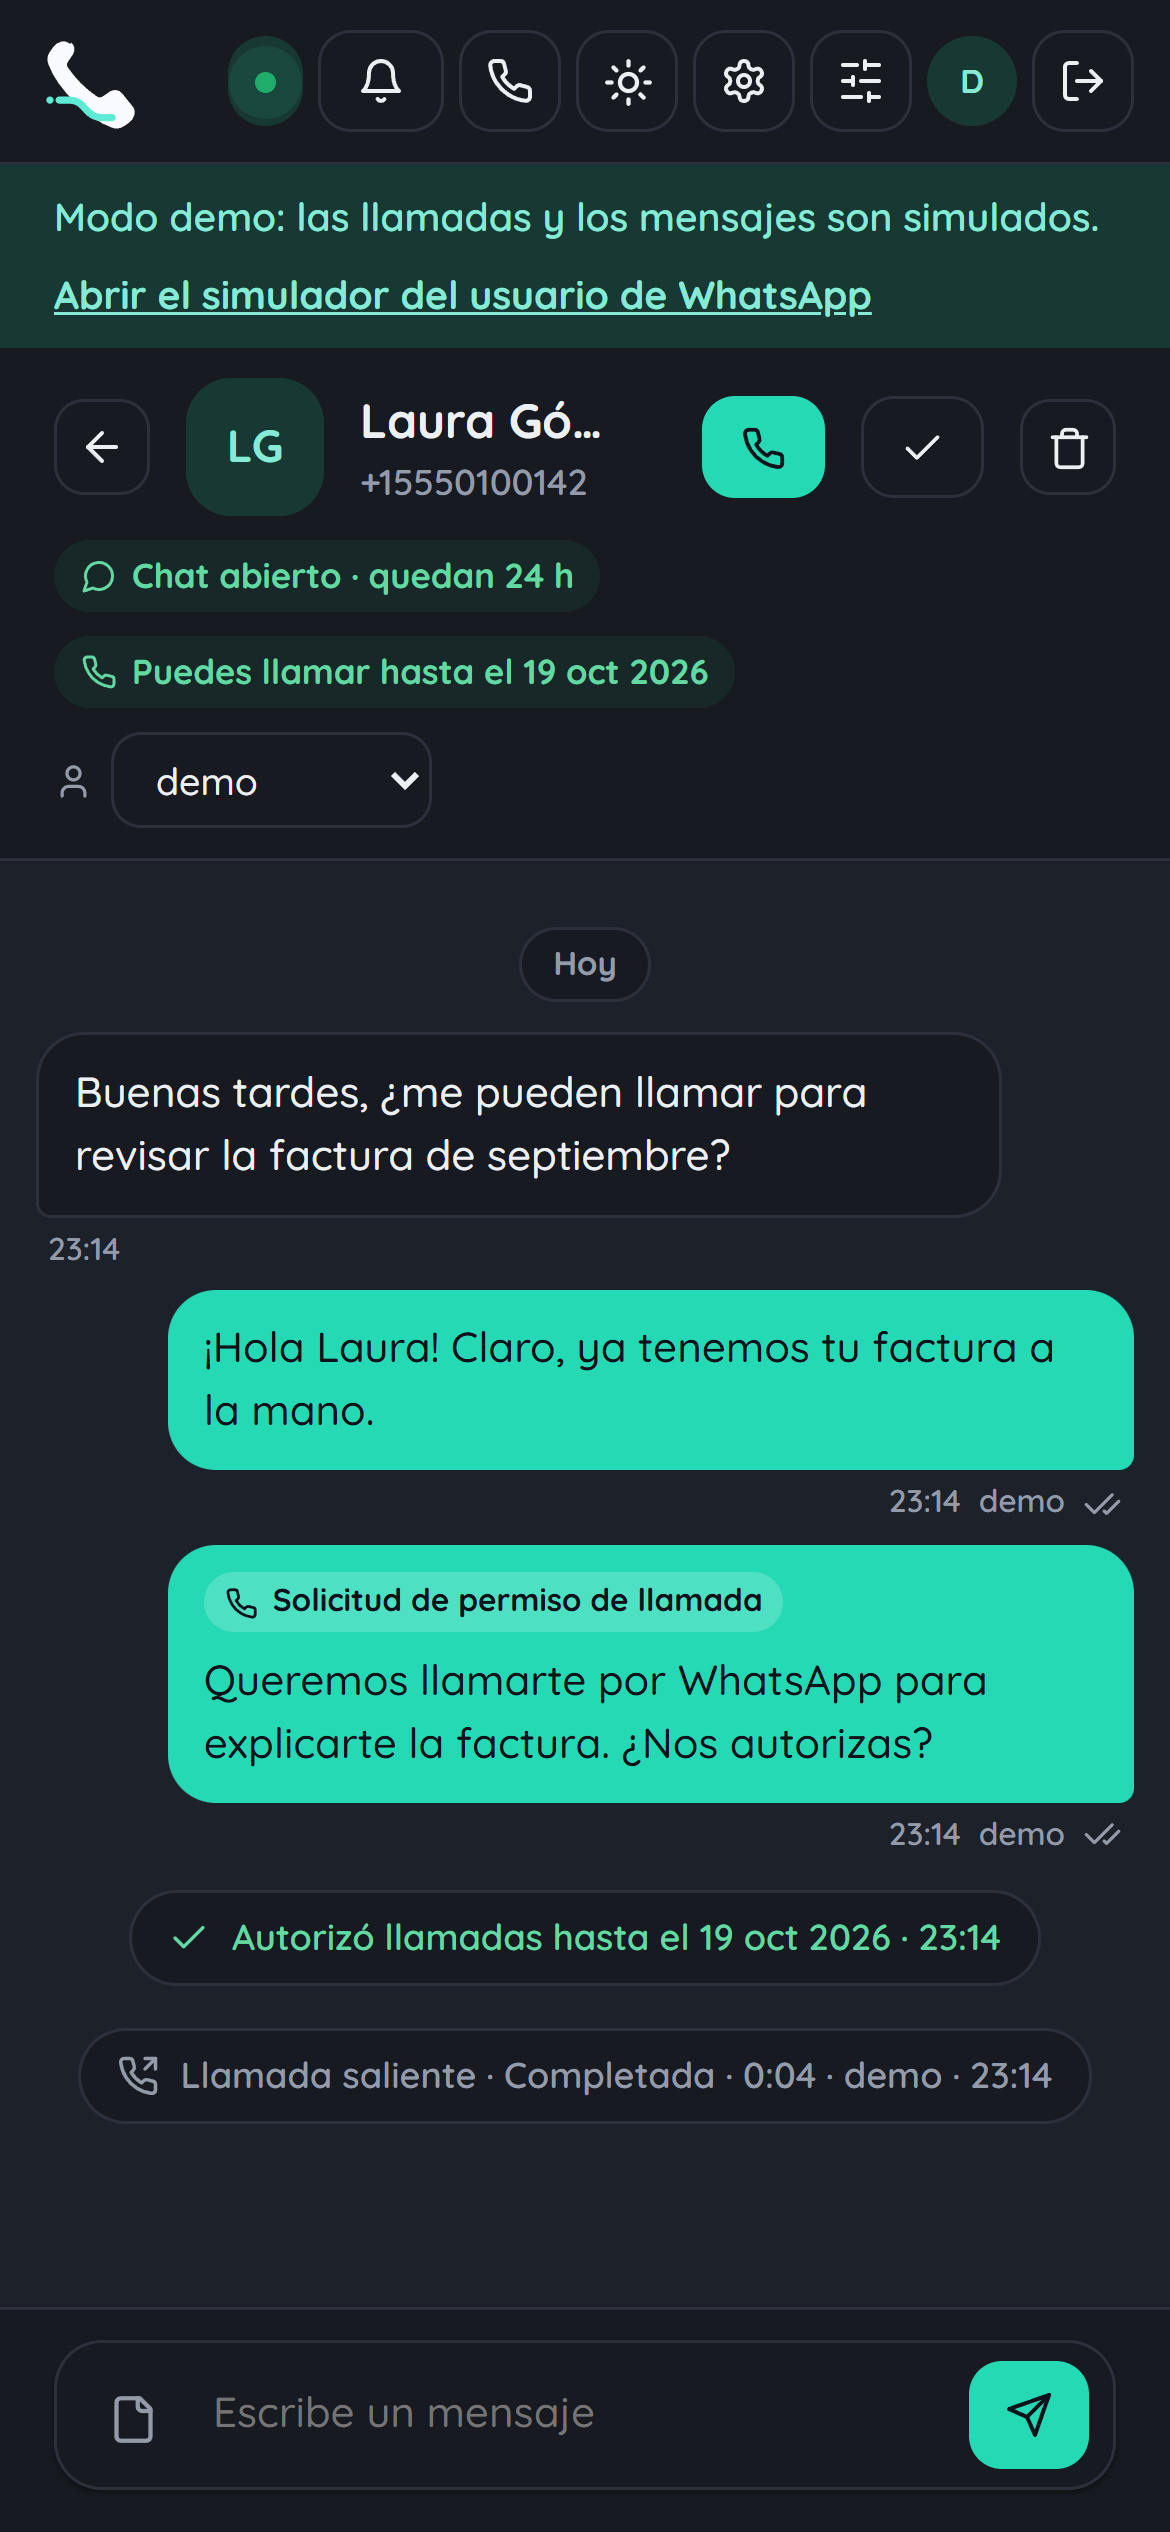
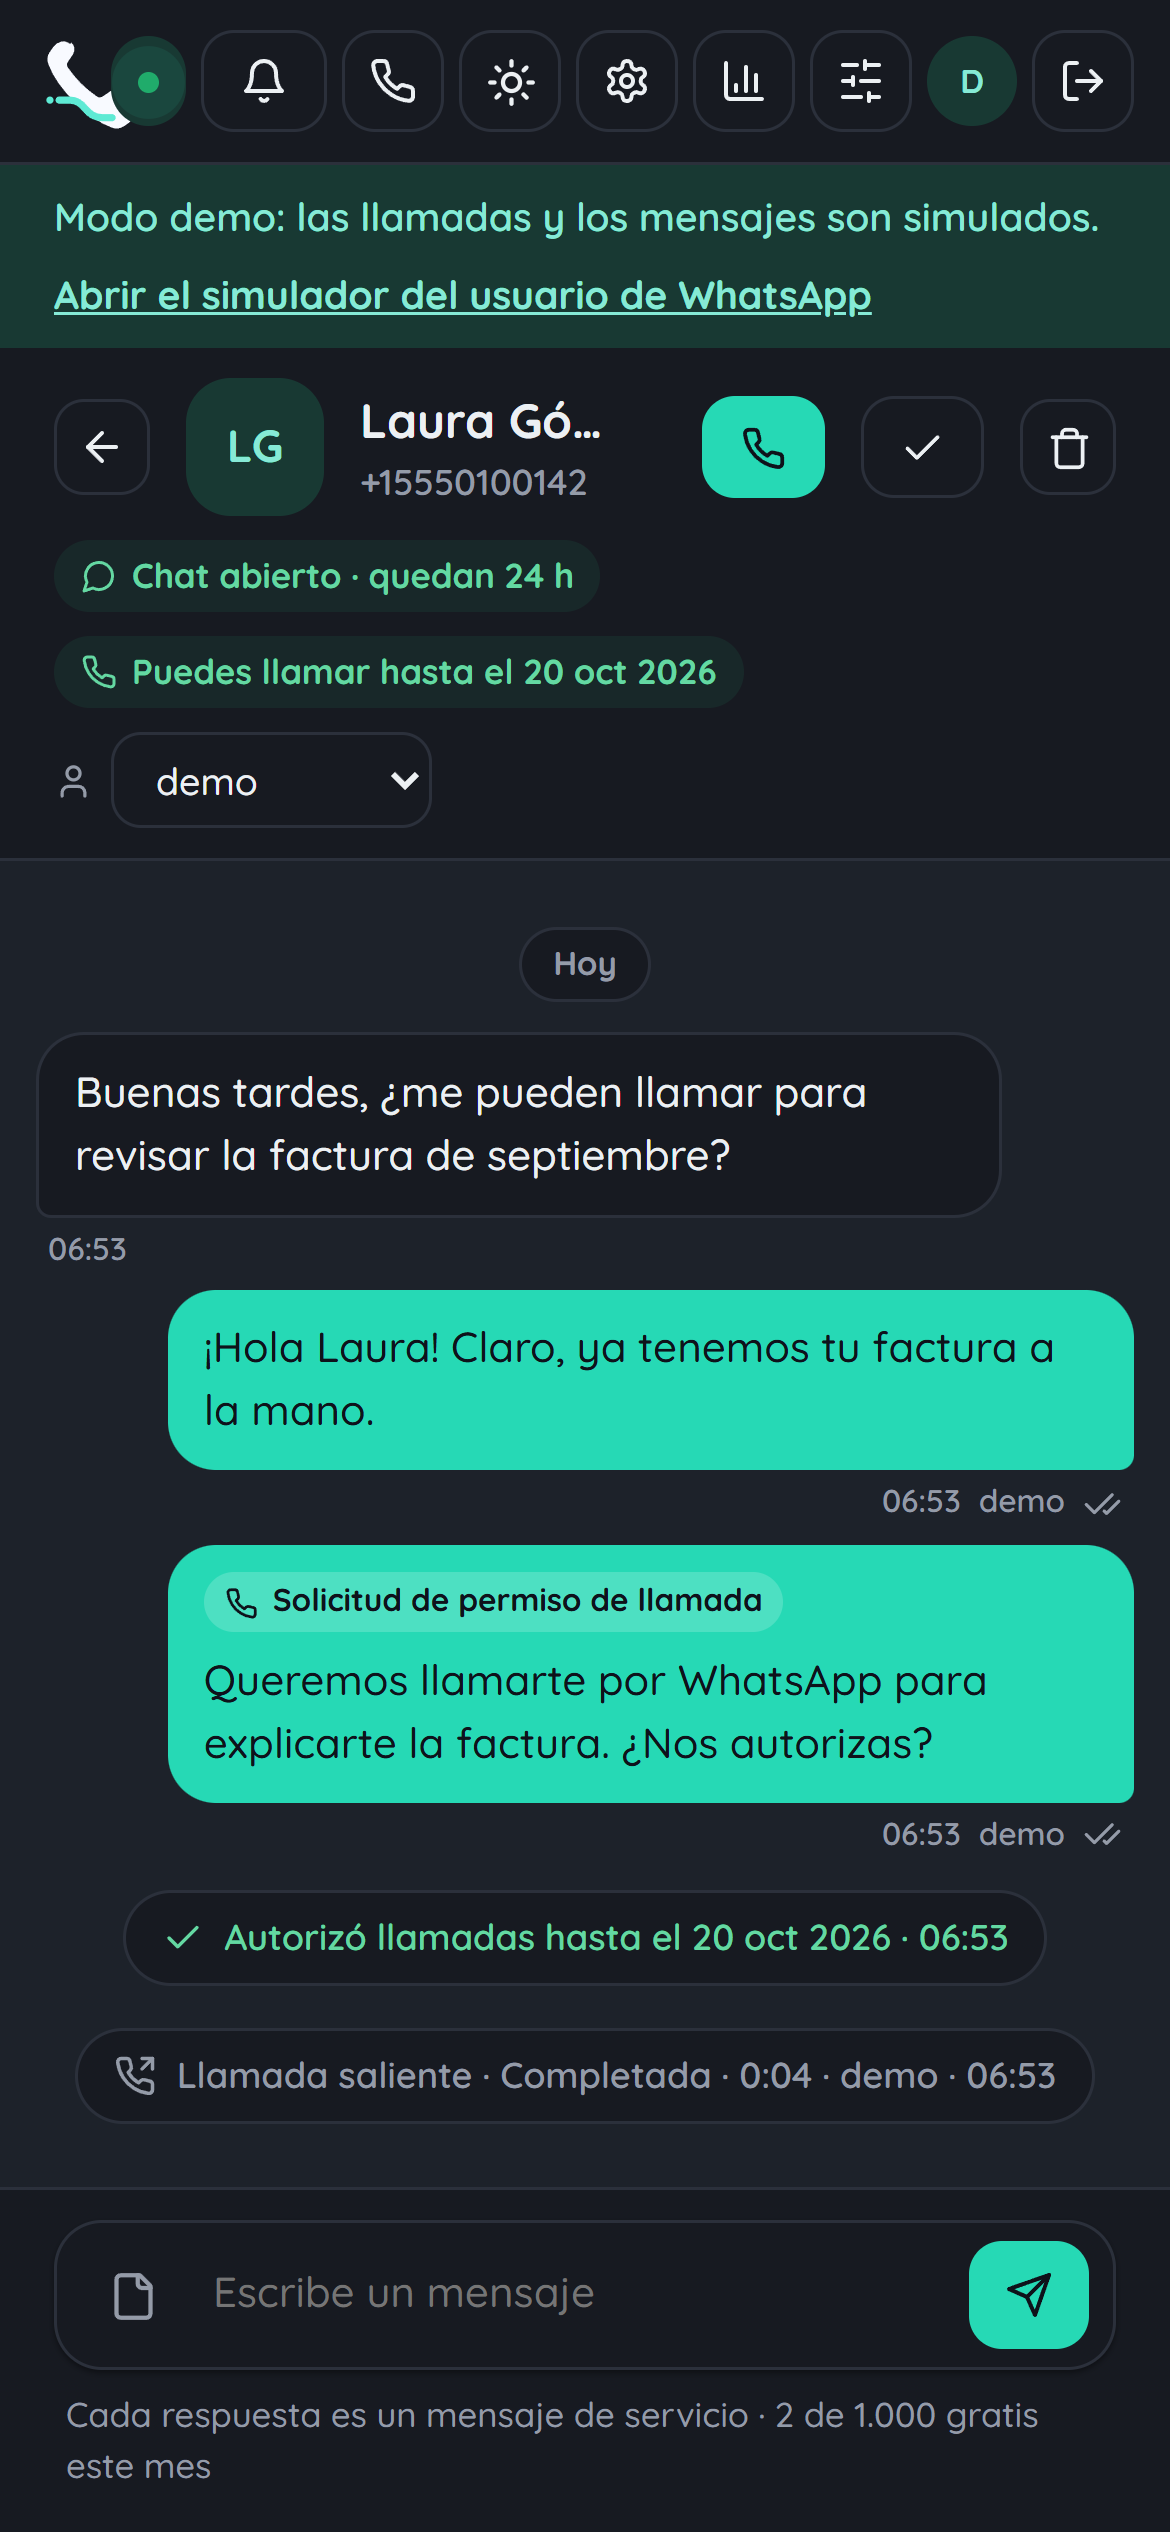
test: la página puede enlazar a otros sitios pero no cargar nada de ellos
El bloque «Acerca de» de #8 enlaza a GitHub y a phone.sieflow.ai: la prueba
ahora mira solo scripts, estilos, fuentes e imágenes. Capturas del README
con la marca nueva y el contador de mensajes de servicio.

diff --git a/test/server.test.js b/test/server.test.js
@@ -128,7 +128,8 @@ describe('demo instance', () => {
     const page = await api.request('/');
     assert.doesNotMatch(page.headers.get('content-security-policy'), /googleapis|gstatic/);
     assert.match(page.headers.get('content-security-policy'), /font-src 'self'/);
-    assert.doesNotMatch(page.data, /https?:\/\//, 'the page loads nothing from other hosts');
+    // Links to the project are fine; scripts, styles, fonts and images are not.
+    assert.doesNotMatch(page.data, /<(?:script|link|img)\b[^>]*(?:src|href)="(?:https?:)?\/\//i, 'the page loads nothing from other hosts');
     const files = {
       '/favicon.svg': 'image/svg+xml',
       '/favicon.ico': 'image/x-icon',
